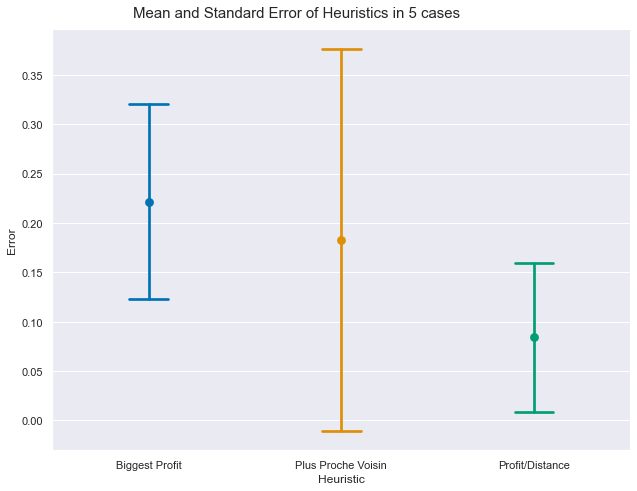
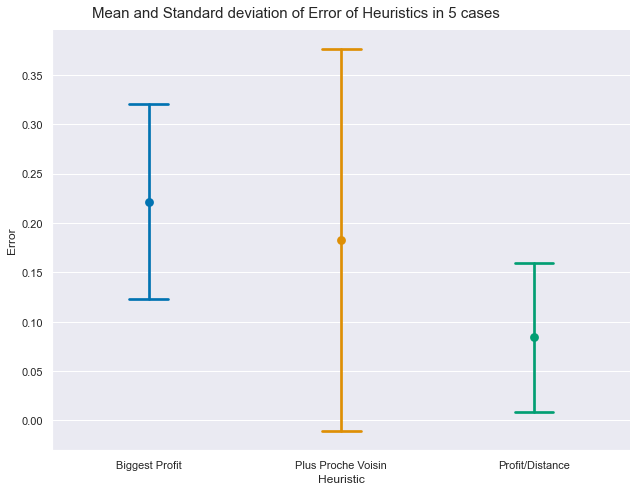
Change name graph

Changed region(s): [[0.1491, 0.0, 0.7755, 0.0611]]

diff --git a/Heuristics.py b/Heuristics.py
@@ -163,7 +163,7 @@ sns.set_context('notebook')
 f=sns.catplot(x="Heuristic", y="Error", hue='Heuristic',data=df, kind="point",
               capsize=0.2,join=False,ci='sd') 
 
-f.fig.suptitle("Mean and Standard Error of Heuristics in 5 cases",y=1.01, size=15)
+f.fig.suptitle("Mean and Standard deviation of Error of Heuristics in 5 cases",y=1.01, size=15)
 
 f.fig.set_figwidth(10)
 f.fig.set_figheight(7)
